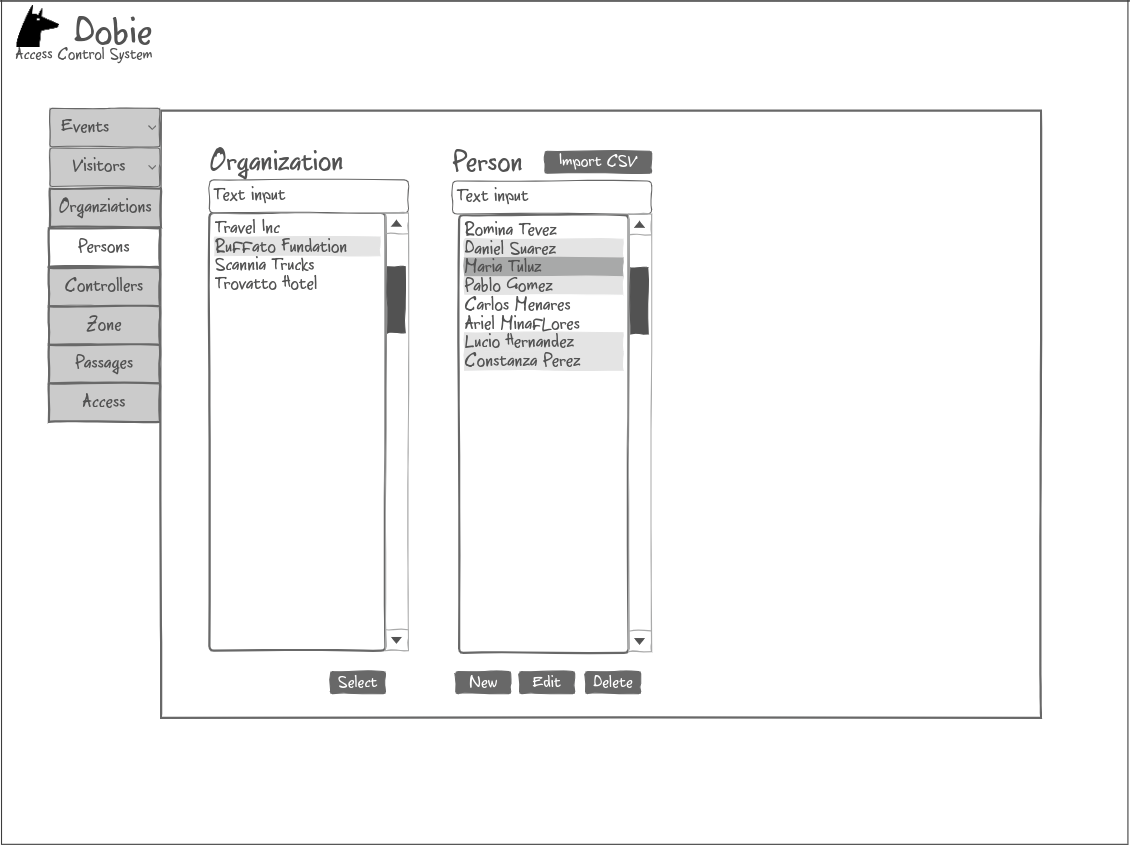
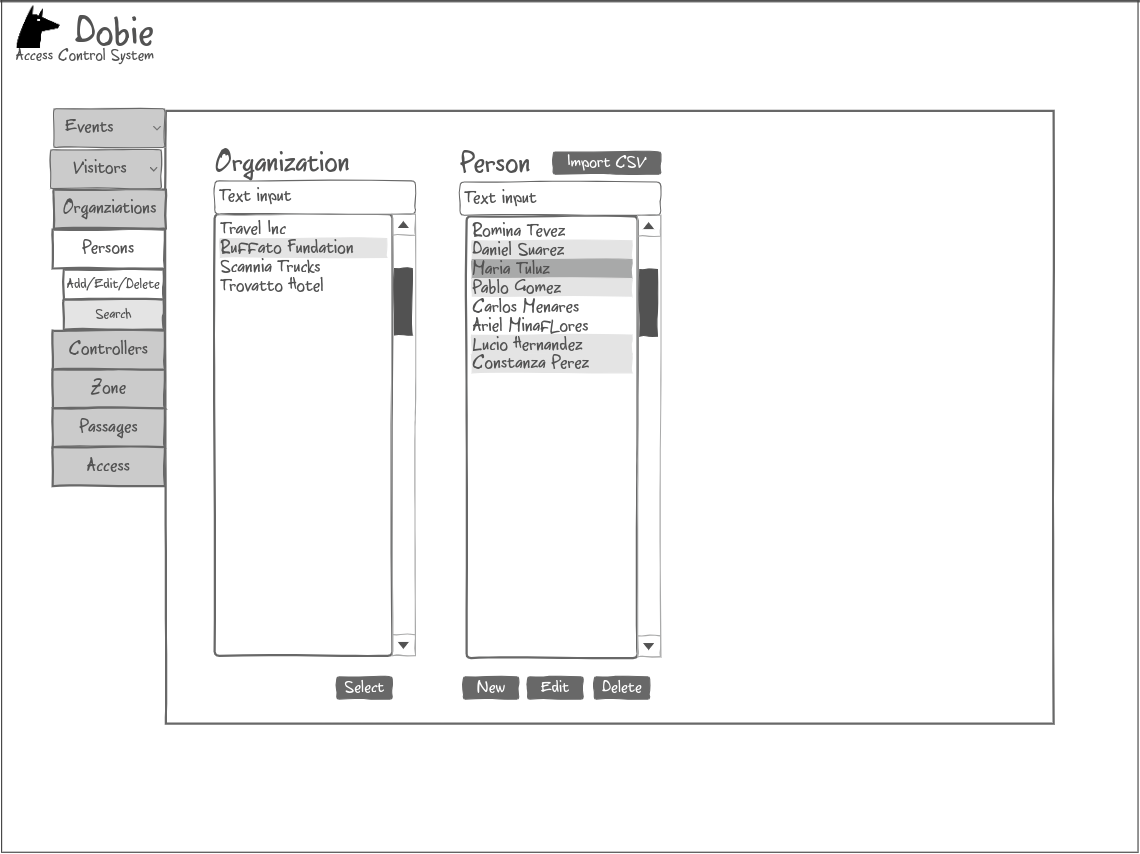
Adding to search persons to documentation
-Add search persons to documentation
-Add the person note field to documentation

diff --git a/docs/front_end_specs.rst b/docs/front_end_specs.rst
@@ -326,12 +326,14 @@ The following REST method should be sent to the server:
 Persons
 -------
 
-This screen is used to “add”, “edit” or “delete” persons. For any of this actions,
+
+In this section there are two screens. One of them lets “add”, “edit” or “delete” persons. For any of this actions,
 an organizations should be selected first.
+The second screen, lets search persons using a part of the name or/and a part of the last name or/and the identification number or/and the card number. 
 
 .. image:: images_front_end_specs/person.png
 
-To get from server the current list of organizations, see `Get Organizations`_ section.
+For the first screen, to get from server the current list of organizations, see `Get Organizations`_ section.
 
 Get Persons
 ~~~~~~~~~~~
@@ -451,7 +453,7 @@ Add Person
 
 When “New” button is pressed the following pop-up will appear:
 
-.. image:: images_front_end_specs/add_person.png
+.. image:: images_front_end_specs/add_upd_person.png
 
 The following REST method should be sent to the server:
 
@@ -467,7 +469,7 @@ The following REST method should be sent to the server:
 
 .. code-block::
 
-  {"names": "Carlos Ruben", "lastName": "Alvarez", "identNumber": "27063146", "cardNumber": 5300768, "orgId": 3, "visitedOrgId": null}
+  {"names": "Carlos Ruben", "lastName": "Alvarez", "identNumber": "27063146", "note": "This person has a blue car", "cardNumber": 5300768, "orgId": 3, "visitedOrgId": null}
   
   
 **Response:**
@@ -547,7 +549,7 @@ Edit a Person
 
 When “Edit” button is pressed the following pop-up will appear:
 
-.. image:: images_front_end_specs/upd_person.png
+.. image:: images_front_end_specs/add_upd_person.png
 
 The following REST method should be sent to the server:
 
@@ -563,7 +565,7 @@ The following REST method should be sent to the server:
 
 .. code-block::
 
-  {"names": "Lucas Camilo", "lastName": "Sorin", "identNumber": "23063146", "cardNumber": 9136307, "orgId": 3, "visitedOrgId": null}
+  {"names": "Lucas Camilo", "lastName": "Sorin", "identNumber": "23063146", "note": "He has a blue car", "cardNumber": 9136307, "orgId": 3, "visitedOrgId": null}
   
   
   
@@ -644,7 +646,7 @@ If the person is not present in the system, the following message will be receiv
 **Response:**
 
 .. code-block::
-  
+
   HTTP/1.0 404 NOT FOUND
   Content-Type: application/json
   Content-Length: 107
@@ -670,6 +672,65 @@ When "import CSV" button is pressed in the main person screen, the following pop
 .. image:: images_front_end_specs/import_csv.png
 
 The frontend should send a POST method for each line, in the same way it sends the POST when adding one person. See `Add Person`_
+
+
+Search Persons
+~~~~~~~~~~~~~~
+
+The second screen of persons section lets search persons using a part of the name or/and a part of the last name or/and the identification number or/and the card number.
+
+.. image:: images_front_end_specs/search_persons.png
+
+
+**Method:** GET
+
+**URI:**
+
+.. code-block::
+
+  http://localhost:5000/api/v1.0/person?namesPattern=or&lastNamePattern=kleiner&cardNumber=5379295&identNumber=28063146"
+
+
+**Response:**
+
+.. code-block::
+
+  HTTP/1.1 200 OK
+  Content-Type: application/json
+  Content-Length: 149
+  Date: Thu, 02 May 2019 17:55:23 GMT
+
+  [{"cardNumber":5379295,"identNumber":"28063146","lastName":"Kleinerman","orgName":"Bonifies Networks","names":"Jorge Emanuel","note":"nota de prueba"}]
+
+Any of the variables to search the persons can be omitted but not all off them
+
+
+**Method:** GET
+
+**URI:**
+
+.. code-block::
+
+  http://localhost:5000/api/v1.0/person?lastNamePattern=kleiner
+
+
+**Response:**
+
+.. code-block::
+
+  HTTP/1.1 200 OK
+  Content-Type: application/json
+  Content-Length: 289
+  Date: Thu, 02 May 2019 17:58:34 GMT
+
+  [{"cardNumber":5379295,"identNumber":"28063146","lastName":"Kleinerman","orgName":"Bonifies Networks","names":"Jorge Emanuel","note":"nota de prueba"},{"cardNumber":5300738,"identNumber":"21063146","lastName":"Kleinerman","orgName":"Bonifies Networks","names":"Ary D.","note":"nota de prueba"}]
+
+
+Persons found should be shown in the following way
+
+.. image:: images_front_end_specs/search_persons_result.png
+
+
 
 
 Accesses
